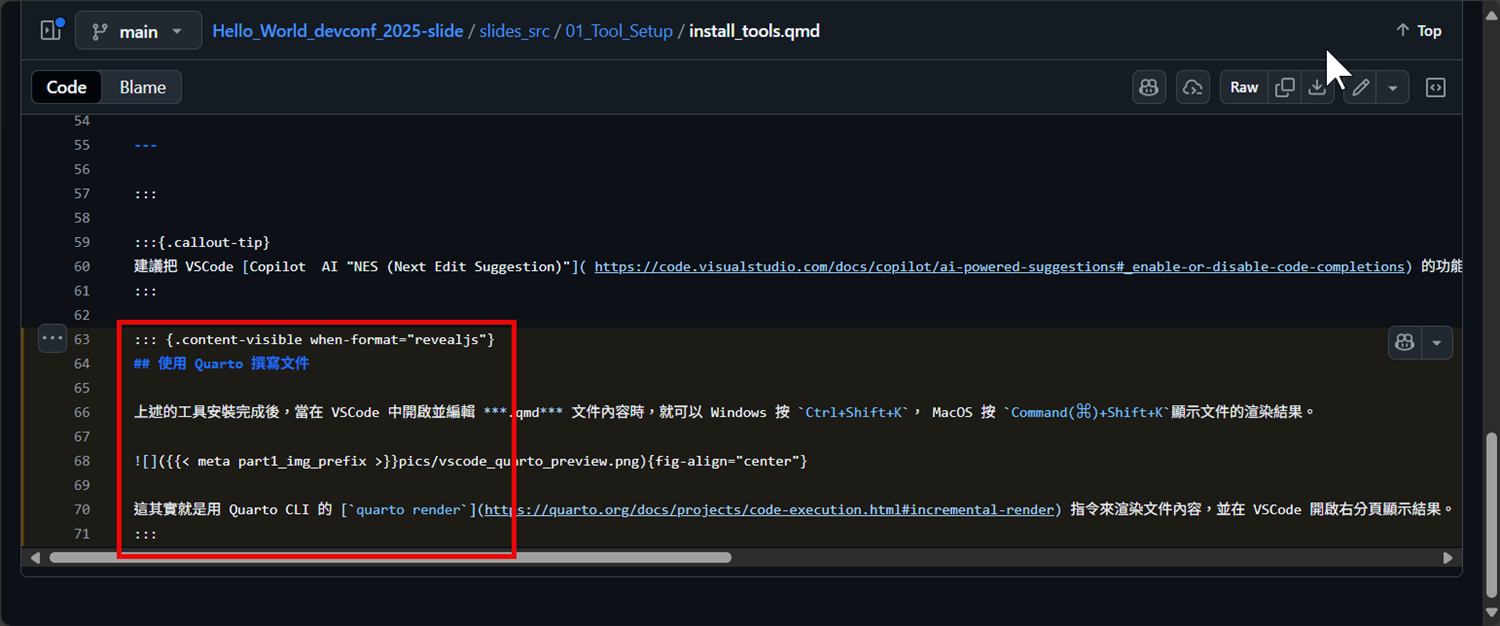
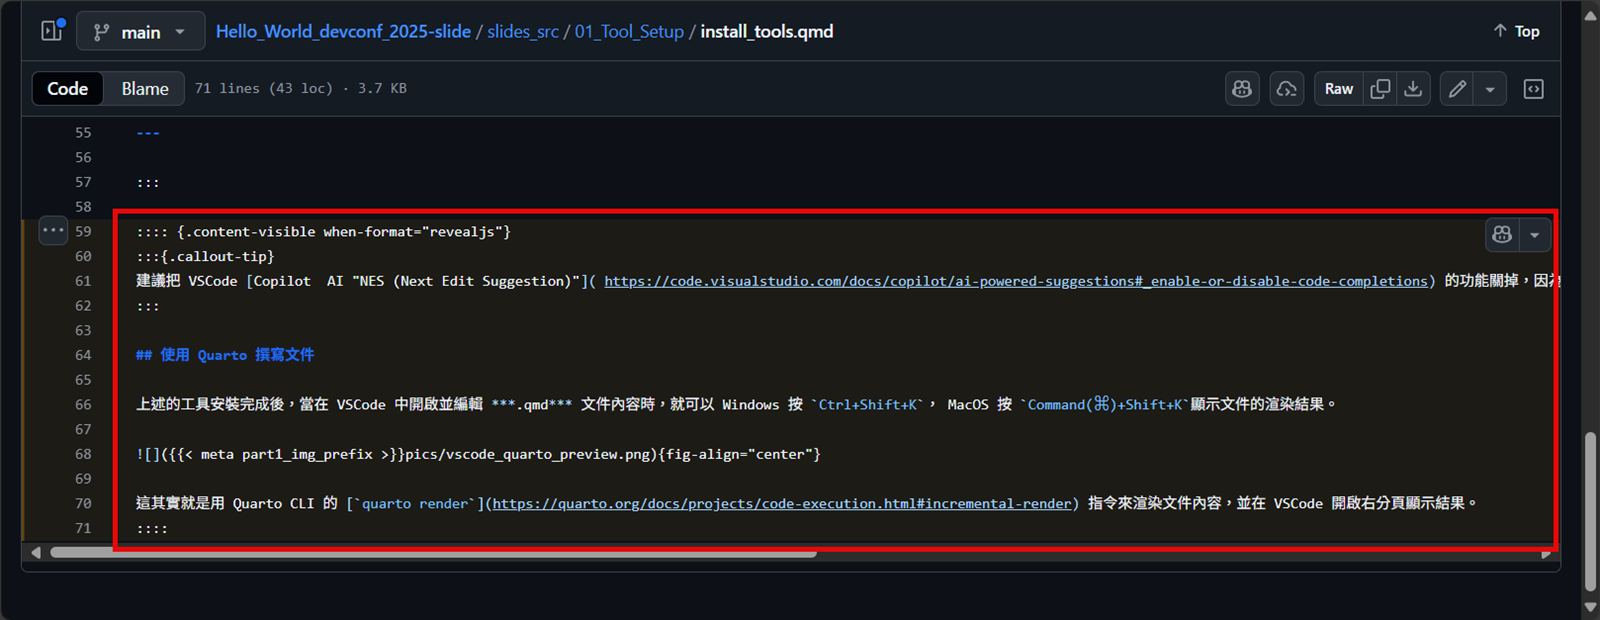
Built site for gh-pages

Changed region(s): [[0.0, 0.0919, 1.0, 0.9194], [0.0, 0.0306, 0.552, 0.0613], [0.92, 0.0306, 0.9813, 0.0613]]

diff --git a/docs/slides/web/index.html b/docs/slides/web/index.html
@@ -558,9 +558,9 @@ format: html
 <section id="條件內容-conditional-content" class="slide level2">
 <h2>條件內容 (Conditional Content)</h2>
 <p>Quarto 支援<a href="https://quarto.org/docs/authoring/conditional.html">條件內容 (Conditional Content)</a>，可根據輸出格式、目前使用的 <a href="https://quarto.org/docs/projects/profiles.html#profile-content">Project Profile</a> 來決定是否顯示指定區塊內容。</p>
-<p>藉由此語法可控制在不同輸出格式中顯示不同內容，例如<a href="https://github.com/windperson/Hello_World_devconf_2025-slide/blob/main/slides_src/01_Tool_Setup/install_tools.qmd#L63-L71">本簡報的Part1原始碼63~71行</a>：</p>
+<p>藉由此語法可控制在不同輸出格式中顯示不同內容，例如<a href="https://github.com/windperson/Hello_World_devconf_2025-slide/blob/main/slides_src/01_Tool_Setup/install_tools.qmd#L59-L71">本簡報的Part1原始碼59~71行</a>：</p>
 
-<img data-src="02_Quarto_Tips/pics/conditional_content_demo.png" class="quarto-figure quarto-figure-center r-stretch"><p>這樣就可以在輸出為整頁 HTML Page 的 Quarto 相關工具安裝文件時藏起這段建議把 AI Completion 功能關掉的說明文字，避免離題。</p>
+<img data-src="02_Quarto_Tips/pics/conditional_content_demo.png" class="quarto-figure quarto-figure-center r-stretch"><p>這樣就可以在輸出為整頁 HTML Page 的 Quarto 相關工具安裝文件時藏起後續說明文字，避免離題。</p>
 </section>
 <section id="引入其他-.qmd-文件內容-including-content" class="slide level2">
 <h2>引入其他 <strong><em>.qmd</em></strong> 文件內容 (Including Content)</h2>

diff --git a/Quarto-RAG.html b/Quarto-RAG.html
@@ -299,7 +299,7 @@ ul.task-list li input[type="checkbox"] {
 
 <section id="create-rag-store-of-quarto-website" class="level2">
 <h2 class="anchored" data-anchor-id="create-rag-store-of-quarto-website">Create RAG Store of Quarto Website</h2>
-<p></p><div class="player-container" cast-src="./screen_casts/create-quarto-web-rag-store.cast" data-options="{&quot;poster&quot;: &quot;npt:1:23&quot;, &quot;speed&quot;: &quot;4&quot;, &quot;theme&quot;: &quot;dracula&quot;, &quot;cols&quot;: &quot;80&quot;, &quot;autoPlay&quot;: &quot;true&quot;, &quot;rows&quot;: &quot;15&quot;}"></div><p></p>
+<p></p><div class="player-container" cast-src="./screen_casts/create-quarto-web-rag-store.cast" data-options="{&quot;rows&quot;: &quot;15&quot;, &quot;autoPlay&quot;: &quot;true&quot;, &quot;speed&quot;: &quot;4&quot;, &quot;cols&quot;: &quot;80&quot;, &quot;theme&quot;: &quot;dracula&quot;, &quot;poster&quot;: &quot;npt:1:23&quot;}"></div><p></p>
 </section>
 <section id="query-using-llm-by-ellmer-package" class="level2">
 <h2 class="anchored" data-anchor-id="query-using-llm-by-ellmer-package">Query using LLM by ellmer package</h2>
